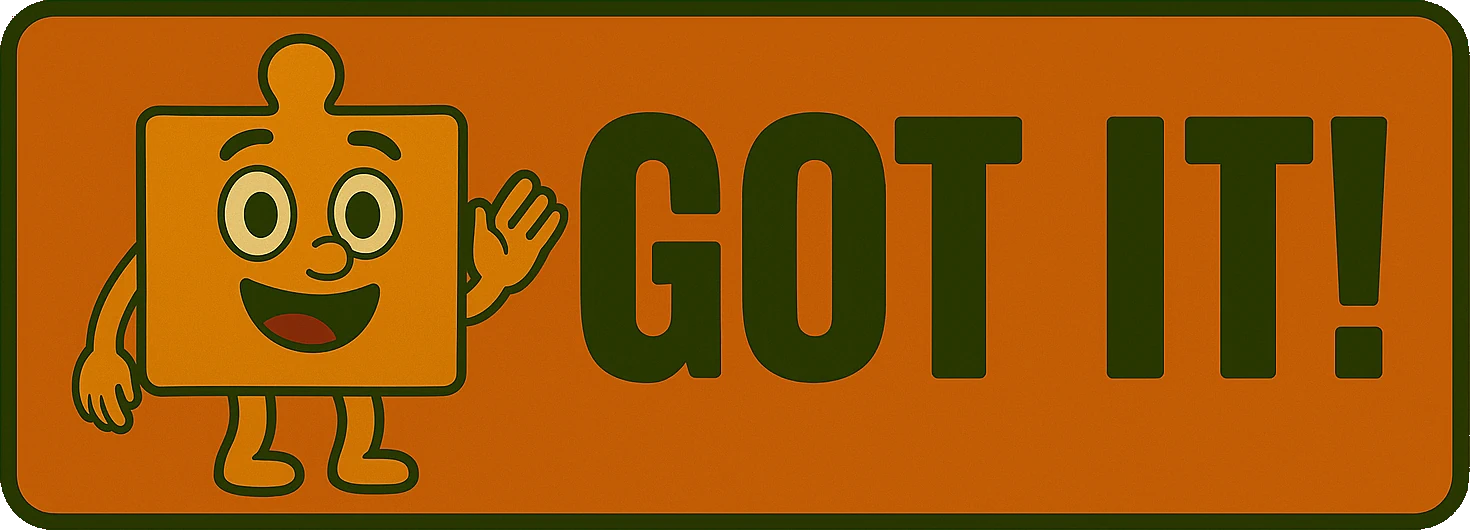
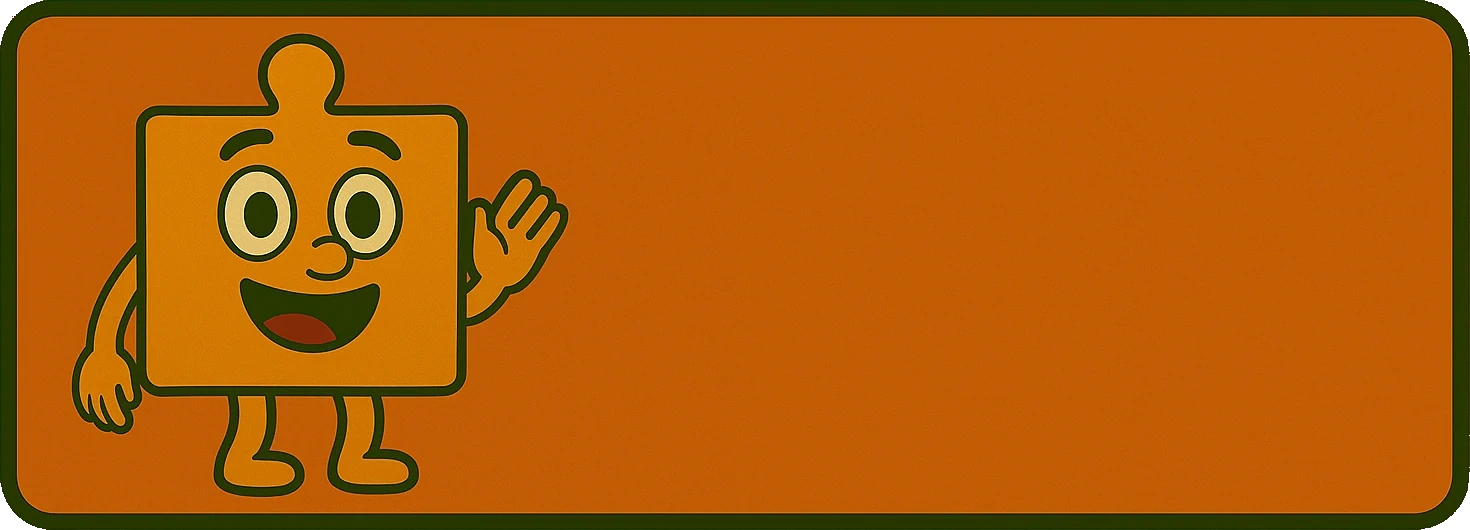
img to img+text buttons

Changed region(s): [[0.3673, 0.2113, 0.7041, 0.7245], [0.7347, 0.2113, 0.949, 0.7245]]

diff --git a/src/gui/PopupHint.ts b/src/gui/PopupHint.ts
@@ -207,7 +207,7 @@ class PopupHint {
         this.bottomRect.color = "#AAAAAA";
         mainStack.addControl(this.bottomRect);
 
-        this.gotItButton = Button.CreateImageOnlyButton("gotItButton", "assets/buttons/got-it-button-small.webp");
+        this.gotItButton = Button.CreateImageWithCenterTextButton("gotItButton", "GOT IT!", "assets/buttons/got-it-button-small.webp");
         this.gotItButton.thickness = 0;
         this.gotItButton.background = "";
         this.gotItButton.hoverCursor = "pointer";
@@ -215,6 +215,10 @@ class PopupHint {
         this.gotItButton.height = "90%";
         this.gotItButton.isHitTestVisible = true;
         this.gotItButton.isPointerBlocker = true;
+        this.gotItButton.textBlock!.paddingRight = "15%";
+        this.gotItButton.textBlock!.textHorizontalAlignment = Control.HORIZONTAL_ALIGNMENT_RIGHT;
+        this.gotItButton.textBlock!.fontWeight = "bold";
+
 
         this.gotItButton.onPointerClickObservable.add(() => {
             if (this._action) {
@@ -235,6 +239,7 @@ class PopupHint {
         this.emptyGreenButton.isHitTestVisible = true;
         this.emptyGreenButton.isPointerBlocker = true;
         this.emptyGreenButton.textBlock!.color = "#F8EDB8FF";
+        this.emptyGreenButton.textBlock!.fontWeight = "bold";
 
         this.emptyGreenButton.onPointerClickObservable.add(() => {
             if (this._action) {
@@ -244,7 +249,7 @@ class PopupHint {
 
         this.bottomRect.addControl(this.emptyGreenButton);
 
-        this.notNowButton = Button.CreateImageOnlyButton("notNowButton", "assets/buttons/not-now-button.webp");
+        this.notNowButton = Button.CreateImageWithCenterTextButton("notNowButton", "NOT NOW", "assets/buttons/not-now-button.webp");
         this.notNowButton.thickness = 0;
         this.notNowButton.background = "";
         this.notNowButton.hoverCursor = "pointer";
@@ -254,6 +259,7 @@ class PopupHint {
         this.notNowButton.isHitTestVisible = true;
         this.notNowButton.isPointerBlocker = true;
         this.notNowButton.horizontalAlignment = Control.HORIZONTAL_ALIGNMENT_LEFT;
+        this.notNowButton.textBlock!.fontWeight = "bold";
 
         this.notNowButton.onPointerClickObservable.add(() => {
             this.hide();
@@ -306,7 +312,7 @@ class PopupHint {
 
         this.bottomRect.addControl(this.backButton);
 
-        this.nextButton = Button.CreateImageOnlyButton("nextButton", "assets/buttons/next-button-small.webp");
+        this.nextButton = Button.CreateImageWithCenterTextButton("nextButton", "NEXT", "assets/buttons/next-button-small.webp");
         this.nextButton.thickness = 0;
         this.nextButton.background = "";
         this.nextButton.hoverCursor = "pointer";
@@ -316,6 +322,10 @@ class PopupHint {
         this.nextButton.isHitTestVisible = true;
         this.nextButton.isPointerBlocker = true;
         this.nextButton.horizontalAlignment = Control.HORIZONTAL_ALIGNMENT_RIGHT;
+        this.nextButton.textBlock!.textHorizontalAlignment = Control.HORIZONTAL_ALIGNMENT_RIGHT;
+        this.nextButton.textBlock!.paddingRight = "15%";
+        this.nextButton.textBlock!.fontWeight = "bold";
+        this.nextButton.textBlock!.color = "#F1D89E";
 
         this.nextButton.onPointerClickObservable.add(() => {
             if (this._action) {
@@ -731,8 +741,11 @@ class PopupHint {
         this.xButton.paddingTopInPixels = minSize / 240;
         this.xButton.paddingRightInPixels = minSize / 240;
 
-        this.emptyGreenButton.textBlock!.fontSizeInPixels = minSize / 24;
-        this.backButton.textBlock!.fontSizeInPixels = minSize / 20;
+        this.emptyGreenButton.textBlock!.fontSizeInPixels = minSize / 24; // TODO adjust by text length
+        this.backButton.textBlock!.fontSizeInPixels = minSize / 20; // TODO adjust by text length
+        this.nextButton.textBlock!.fontSizeInPixels = minSize / 20; // TODO adjust by text length
+        this.notNowButton.textBlock!.fontSizeInPixels = minSize / 20; // TODO adjust by text length
+        this.gotItButton.textBlock!.fontSizeInPixels = minSize / 20; // TODO adjust by text length
 
         if (this.formPanelRect.isVisible) {
             const middleTopPanelRatio = 0.99 - 0.16 * this.formPanel.children.length;

diff --git a/src/gui/GuiManager.ts b/src/gui/GuiManager.ts
@@ -57,10 +57,13 @@ class GuiManager {
         this.bottomButtonPanel.horizontalAlignment = Control.HORIZONTAL_ALIGNMENT_CENTER;
         this.bottomButtonPanel.verticalAlignment = Control.VERTICAL_ALIGNMENT_BOTTOM;
 
-        this.playButton = Button.CreateImageOnlyButton("btn1", "assets/buttons/play-button-small.webp");
+        this.playButton = Button.CreateImageWithCenterTextButton("btn1", "PLAY!", "assets/buttons/play-button-small.webp");
         this.playButton.thickness = 0;
         this.playButton.background = "";
         this.playButton.hoverCursor = "pointer";
+        this.playButton.textBlock!.textHorizontalAlignment = Control.HORIZONTAL_ALIGNMENT_RIGHT;
+        this.playButton.textBlock!.paddingRight = "5%";
+        this.playButton.textBlock!.fontWeight = "bold";
         this.playButton.onPointerClickObservable.add(() => {
             analyticsManager.trackButtonClick('play_button', 'initial_mode');
             openCoverAnimation.animate(puzzleCircleBuilder.selectedCover);
@@ -138,6 +141,7 @@ class GuiManager {
         this.bottomButtonPanel.spacing = renderHeight / 48;
         this.playButton.width = renderHeight / 2 + "px";
         this.playButton.height = renderHeight / 8 + "px";
+        this.playButton.textBlock!.fontSizeInPixels = renderHeight / 10;
         this.xButton.width = renderHeight / 12 + "px";
         this.xButton.height = renderHeight / 12 + "px";
         this.xButton.paddingTopInPixels = renderHeight / 80;
